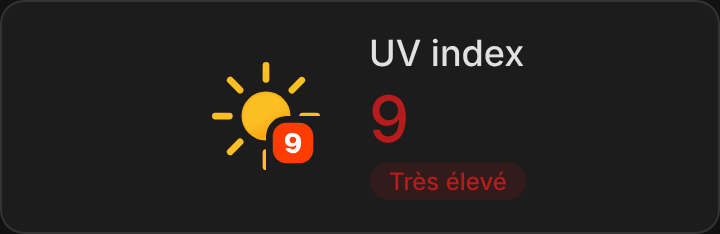
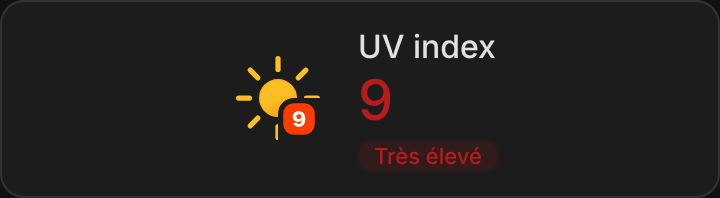
Compact layout with the same information (1.3.0) (#4)
Claude-Session: https://claude.ai/code/session_01FyVHJkuQopwM66ytqwsrgB

diff --git a/src/ha-uv-card.js b/src/ha-uv-card.js
@@ -205,8 +205,8 @@ class UvIndexCard extends HTMLElement {
           align-items: ${alignItems};
           justify-content: ${justify};
           text-align: ${vertical ? "center" : "left"};
-          gap: ${vertical ? "8px" : "16px"};
-          padding: 16px;
+          gap: ${vertical ? "8px" : "12px"};
+          padding: 12px;
           box-sizing: border-box;
           ${top ? "height: 100%;" : ""}
           cursor: pointer;
@@ -214,8 +214,8 @@ class UvIndexCard extends HTMLElement {
           ${transparent ? "background: none; box-shadow: none; border: none;" : ""}
         }
         .icon {
-          width: 72px;
-          height: 72px;
+          width: 56px;
+          height: 56px;
           flex: 0 0 auto;
         }
         .icon svg {
@@ -231,7 +231,7 @@ class UvIndexCard extends HTMLElement {
           min-width: 0;
         }
         .name {
-          font-size: 18px;
+          font-size: 16px;
           font-weight: 500;
           line-height: 1.25;
           color: var(--primary-text-color);
@@ -241,7 +241,7 @@ class UvIndexCard extends HTMLElement {
           max-width: 100%;
         }
         .value {
-          font-size: 32px;
+          font-size: 28px;
           font-weight: 500;
           line-height: 1.1;
           color: var(--uv-color);
@@ -249,9 +249,9 @@ class UvIndexCard extends HTMLElement {
         .label {
           display: inline-block;
           margin-top: 2px;
-          padding: 2px 10px;
+          padding: 1px 8px;
           border-radius: 12px;
-          font-size: 12px;
+          font-size: 11px;
           font-weight: 500;
           color: var(--uv-color);
           background: color-mix(in srgb, var(--uv-color) 15%, transparent);

diff --git a/CHANGELOG.md b/CHANGELOG.md
@@ -1,5 +1,11 @@
 # Changelog
 
+## 1.3.0
+
+### Changes
+- More compact layout with the same information, like the other ha-* cards: 12 px card padding, 36 px header icon, 16 px name and 12 px subtitle, 11 px pills, tighter tiles and sections.
+- Animated icon 72 → 56 px, value 32 → 28 px.
+
 ## 1.2.0
 
 ### What's new
